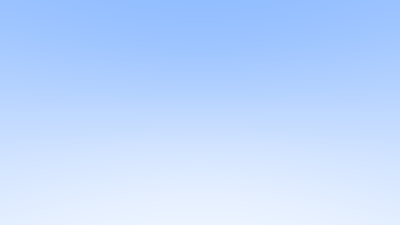
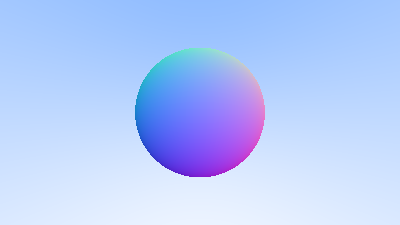
ray tracing: 5

Changed region(s): [[0.33, 0.1867, 0.66, 0.8089]]

diff --git a/ray-tracing/lib/main.rb b/ray-tracing/lib/main.rb
@@ -5,8 +5,28 @@ require_relative "ray"
 class Main
   using NumericVec3
 
+  def self.hit_sphere(center, radius, ray)
+    oc = ray.origin - center
+    a = Vec3.dot(ray.direction, ray.direction)
+    b = 2.0 * Vec3.dot(oc, ray.direction)
+    c = Vec3.dot(oc, oc) - radius * radius
+
+    discriminant = b * b - 4 * a * c
+
+    if discriminant < 0 
+      -1.0
+    else
+      (-b - Math.sqrt(discriminant)) / (2.0 * a)
+    end
+  end
+
   def self.ray_color(ray)
-    # Vec3.new(0, 0, 0).color
+    t = hit_sphere(Point3.new(0, 0, -1), 0.5, ray)
+    if t > 0.0
+      n = Vec3.unit_vector(ray.at(t) - Vec3.new(0, 0, -1))
+      return 0.5 * Color.new(n.x + 1, n.y + 1, n.z + 1)
+    end
+
     unit_direction = Vec3.unit_vector(ray.direction)
     a = 0.5 * (unit_direction.y + 1.0)
     (1.0 - a) * Color.new(1.0, 1.0, 1.0) + a * Color.new(0.5, 0.7, 1.0)
@@ -15,12 +35,12 @@ class Main
   def self.main
     aspect_ratio = 16.0 / 9.0
     image_width = 400
-    image_height = [image_width / aspect_ratio, 1].max.to_i
+    image_height = [image_width.fdiv(aspect_ratio), 1].max.to_i
 
     # camera
     focal_length = 1.0
     viewport_height = 2.0
-    viewport_width = viewport_height * (image_width / image_height)
+    viewport_width = viewport_height * (image_width.fdiv(image_height))
     camera_center = Point3.new(0, 0, 0)
 
     # vectors for moving around the image
